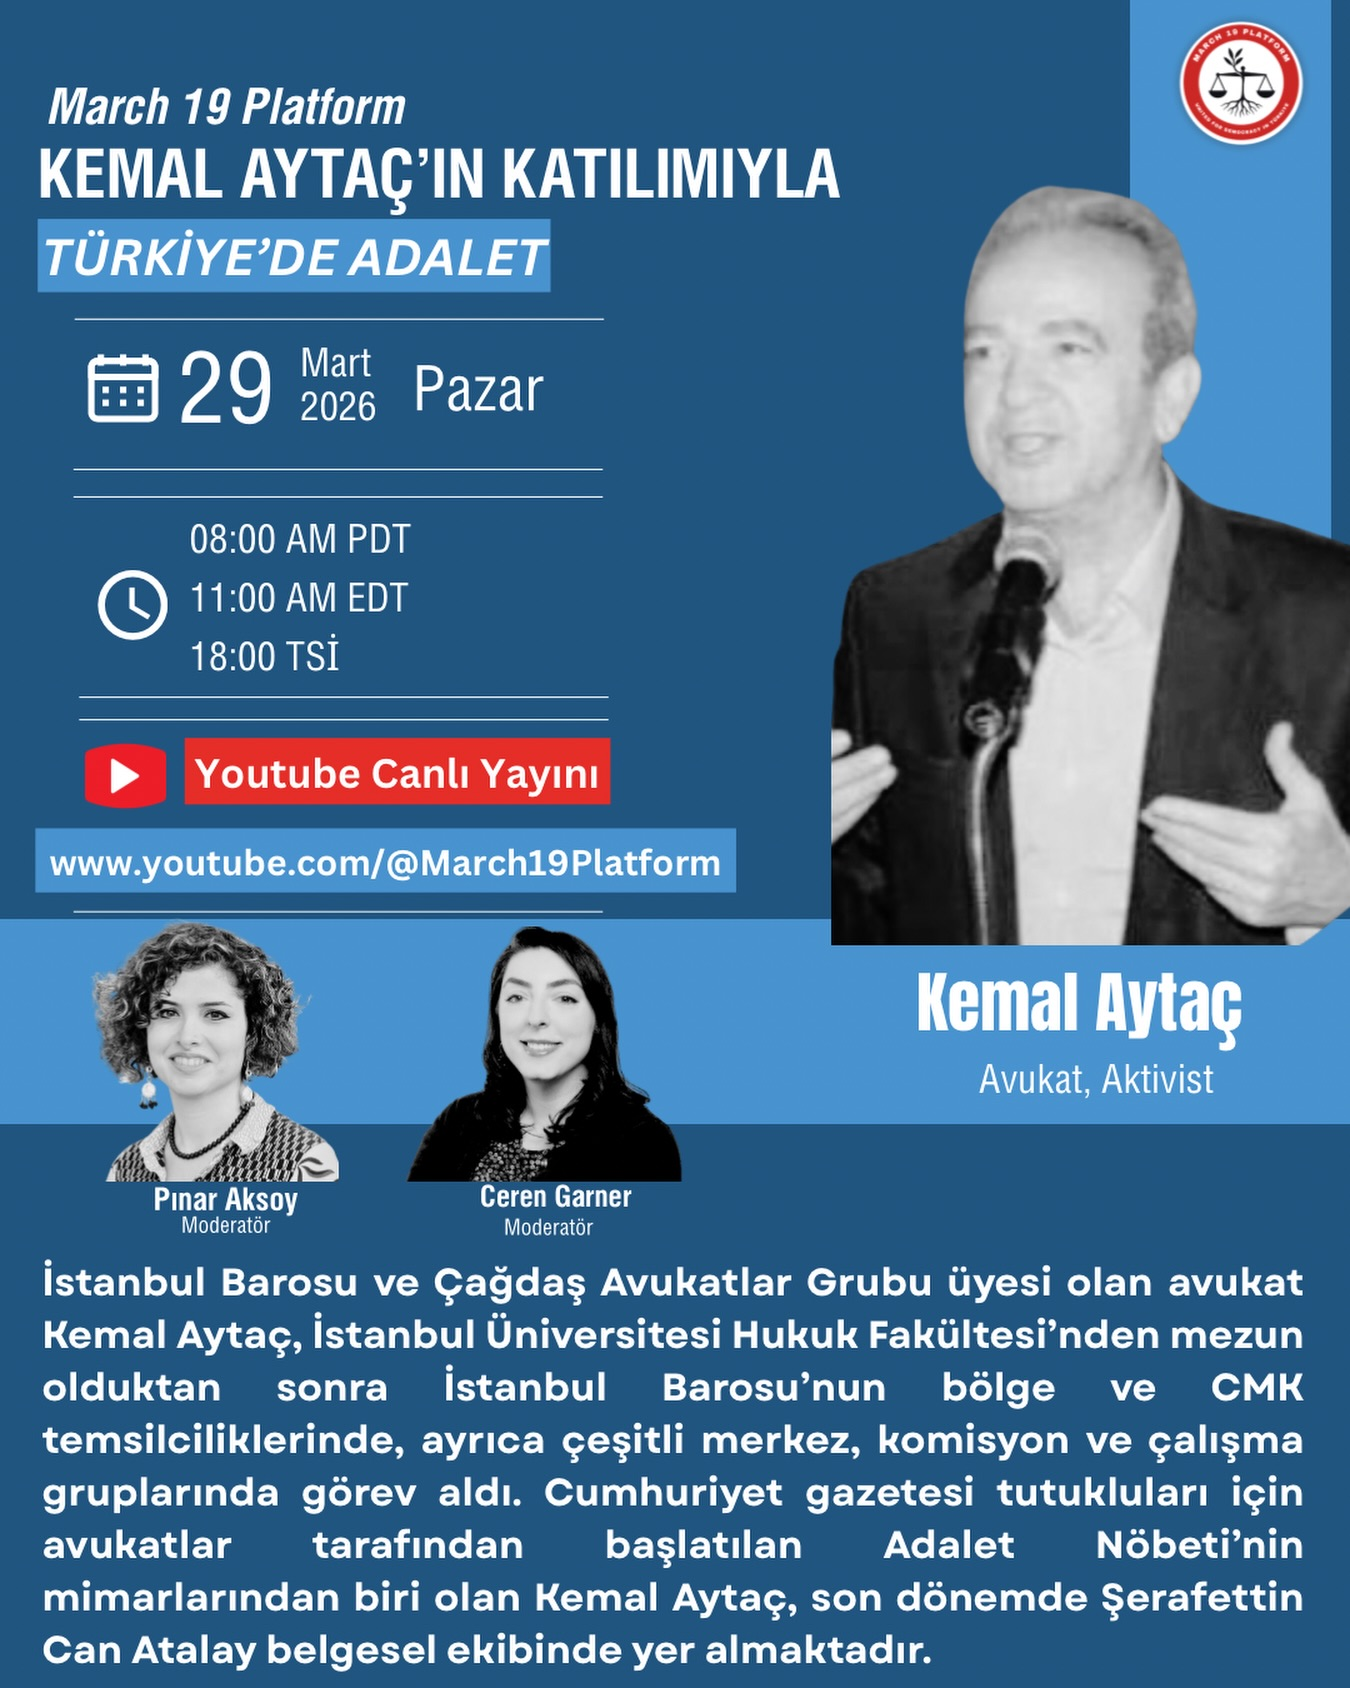
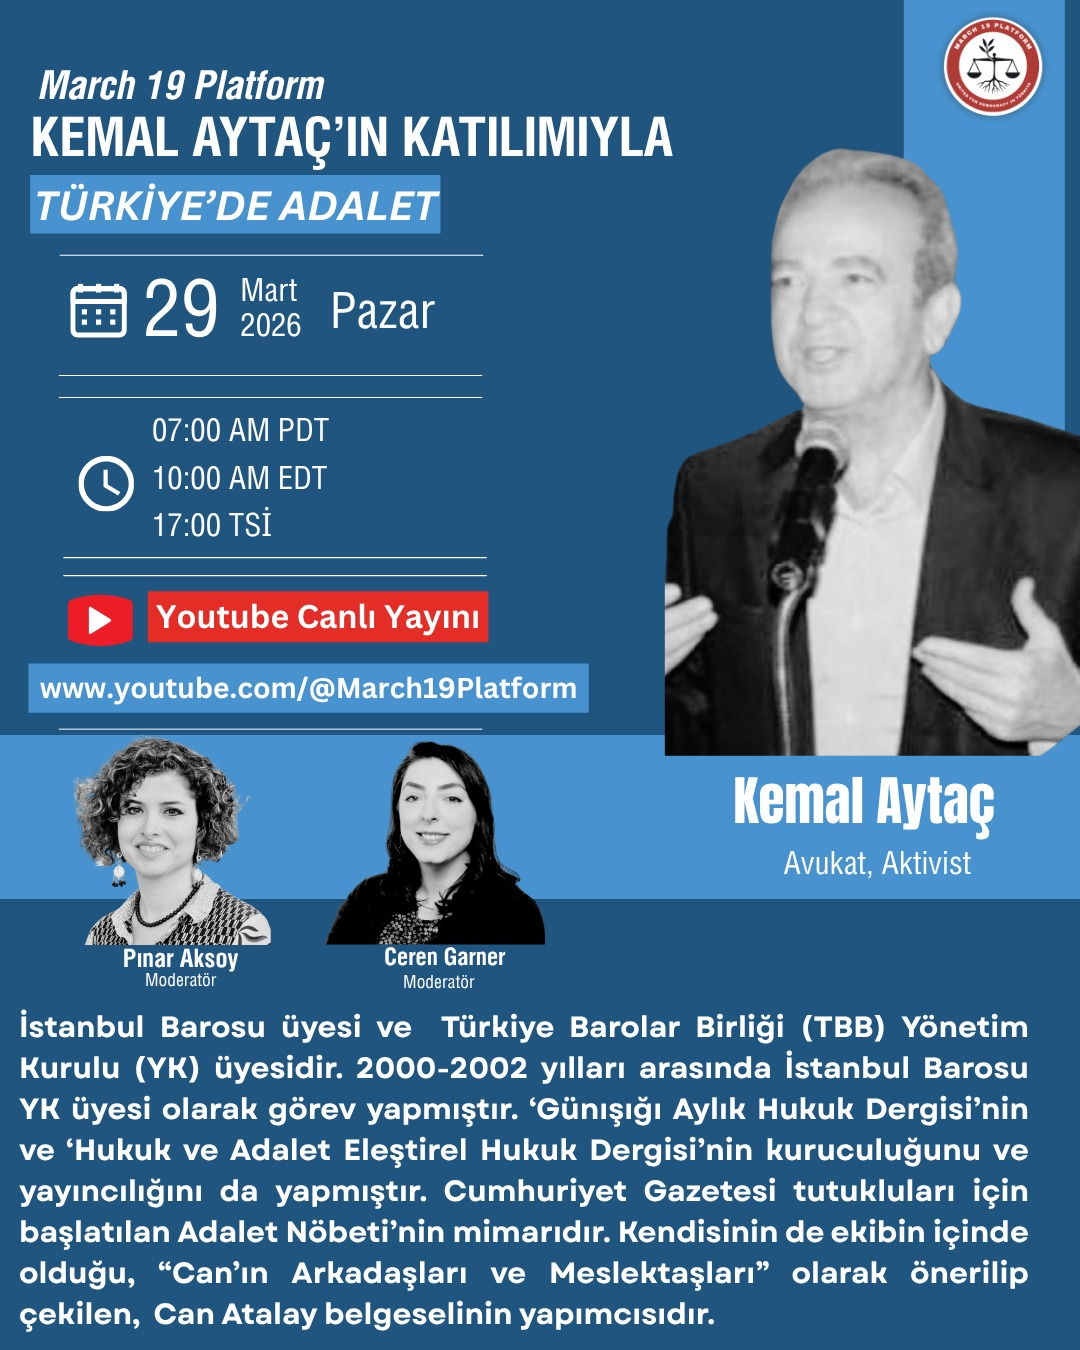
Update Kemal Aytaç poster and link to YouTube live

diff --git a/content/videos/2026-03-29.md b/content/videos/2026-03-29.md
@@ -1,7 +1,7 @@
 ---
 title: "Kemal Aytaç"
 date: 2026-03-29
-youtubeId: ""
+youtubeId: "hGUnAYvmn9E"
 upcoming: true
 poster: "/assets/videos/posters/2026-03-29.jpg"
 panelist: "Kemal Aytaç"
